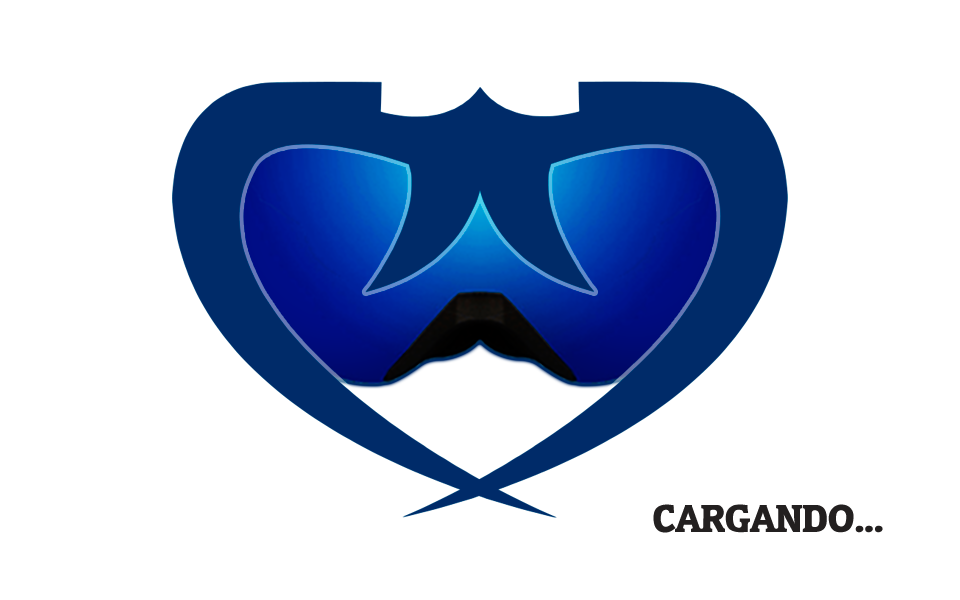
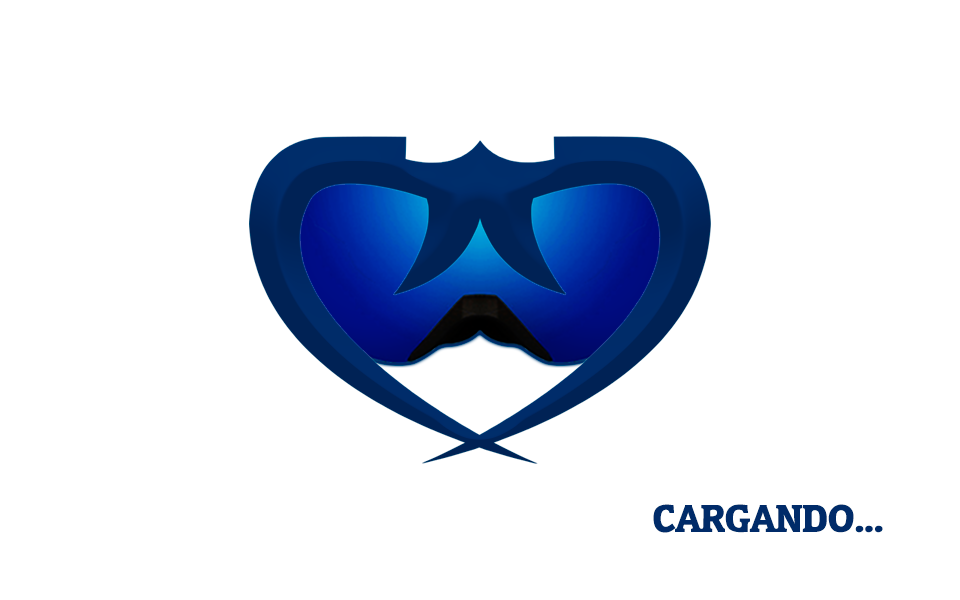
Loading screen added. Working on how to trigger a fade out animation for it when the first scene is loaded.

Changed region(s): [[0.1562, 0.12, 0.8438, 0.87], [0.6562, 0.84, 0.9375, 0.9], [0.4688, 0.48, 0.5312, 0.51]]

diff --git a/Testing Lab/Assets/WebGLTemplates/Plantilla ULPGC/index.html b/Testing Lab/Assets/WebGLTemplates/Plantilla ULPGC/index.html
@@ -118,9 +118,9 @@
 
 	<!-- Scripts para funcionamiento de Unity -->
 
-	<script src="%UNITY_WEBGL_LOADER_URL%"></script>
+	<script src="Build/UnityLoader.js"></script>
   	<script>
-    	var gameInstance = UnityLoader.instantiate("gameContainer", "%UNITY_WEBGL_BUILD_URL%");
+    	var gameInstance = UnityLoader.instantiate("gameContainer", "Build/Builds.json");
 
       	function changeCampusJavascript(campusName){
 			gameInstance.SendMessage("JavaScriptCampusManager", "changeCampusFromJavascript", campusName);
@@ -325,28 +325,31 @@
 				<!-- Fin de botones de campus -->
 
 				<!-- Reproductor web de Unity -->
+				<div class="relative" style="position: relative; height:600px; margin-bottom:150px">
 
-				<div class="webgl-content loading_screen">
-					<img src="./resources/images/pantalla_carga.png" class="fade-out-bck">
+					<!-- Pantalla de carga -->
+					<div class="webgl-content loading_screen" id="loading_screen" style="position: absolute; width: 100%; height: 100%; z-index: 1">
+						<img src="./resources/images/pantalla_carga.png">
+					</div>
+
+					<!-- Reproductor interactivo -->
+					<div class="webgl-content" style="position: absolute">
+						<div id="gameContainer" style="width: 960px; height: 600px; margin: auto"></div>
+
+						<div class="footer">
+							<div class="fullscreen" onclick="gameInstance.SetFullscreen(1)"></div>
+							<div class="title">Pantalla completa</div>
+						</div>
+					</div>
 				</div>
-
-
-                <div class="webgl-content hidden">
-                  <div id="gameContainer" style="width: 960px; height: 600px; margin: auto"></div>
-
-                  <div class="footer">
-                    <div class="fullscreen" onclick="gameInstance.SetFullscreen(1)"></div>
-                    <div class="title">Pantalla completa</div>
-                  </div>
-                </div>
-
+				
                 <!-- Fin de reproductor web de Unity -->
 
-                <div class="download_container">
-                	<a class="download_btn" download href="http://localhost/TFT/Apk/visor3D.apk"><i class="fa fa-android"></i> Descargar aplicación para Android </a>
+                <div class="download_container" style="display:inline-block;">
+                	<a class="download_btn" download href="http://localhost/TFT2/Apk/visor3D.apk"><i class="fa fa-android"></i> Descargar aplicación para Android </a>
                 </div>
-                <div class="download_container">
-                	<a class="download_btn download_remote" download href="http://193.145.147.50/jjangulo/Test/Apk/Visor3D.apk"><i class="fa fa-android"></i> Descargar aplicación (servidor remoto) </a>
+                <div class="download_container" style="display:inline-block;">
+                	<a class="download_btn download_remote" download href="http://193.145.147.50/jjangulo/Test/Apk/visor3D.apk"><i class="fa fa-android"></i> Descargar aplicación (servidor remoto) </a>
                 </div>
                 
                 

diff --git a/Testing Lab/Assets/WebGLTemplates/Plantilla ULPGC/web_ulpgc_files/style.css b/Testing Lab/Assets/WebGLTemplates/Plantilla ULPGC/web_ulpgc_files/style.css
@@ -140,6 +140,7 @@ ul.botonesCampus li{
 	text-align: center;
 	width: 100%;
 	margin: 50px 0 120px 0;
+	display: inline-block;
 }
 
 .download_btn {
@@ -163,15 +164,24 @@ ul.botonesCampus li{
   	background-color: RoyalBlue;
 }
 
-.loading_screen{
+.loading_screen {
 	width: 960px;
 	height: 600px;
-	/*background-image: url(../resources/images/pantalla_carga.png);*/
-	border: 1px;
+	z-index: 1;
 }
 
-.hidden{
+.hidden {
 	display: none;
+}
+
+.showed {
+	display: block;
+}
+
+.relative {
+	position: relative;
+	height: 600px;
+	margin.bottom: 150px;
 }
 
 
@@ -191,10 +201,17 @@ ul.botonesCampus li{
             transform: translateZ(0);
     opacity: 1;
   }
+  99% {
+    opacity: 0;
+    width: 100%;
+    height: 100%;
+  }
   100% {
     -webkit-transform: translateZ(-80px);
             transform: translateZ(-80px);
     opacity: 0;
+    width: 0;
+    height: 0;
   }
 }
 @keyframes fade-out-bck {
@@ -203,10 +220,17 @@ ul.botonesCampus li{
             transform: translateZ(0);
     opacity: 1;
   }
+  99% {
+    opacity: 0;
+    width: 100%;
+    height: 100%;
+  }
   100% {
     -webkit-transform: translateZ(-80px);
             transform: translateZ(-80px);
     opacity: 0;
+    width: 0;
+    height: 0;
   }
 }
 
@@ -215,7 +239,8 @@ ul.botonesCampus li{
 
 /* Unity player styles */
 .webgl-content * {border: 0; margin: 0; padding: 0}
-.webgl-content { margin: 50px 0 30px 0/*position: absolute; top: 50%; left: 50%; -webkit-transform: translate(-50%, -50%); transform: translate(-50%, -50%);*/ }
+/*.webgl-content { margin: 50px 0 30px 0; position: absolute; position: absolute; top: 50%; left: 50%; -webkit-transform: translate(-50%, -50%); transform: translate(-50%, -50%); }*/
+.webgl-content { margin: 50px 0 30px 0; position: absolute; }
 
 .webgl-content .logo, .progress {position: absolute; left: 50%; top: 50%; -webkit-transform: translate(-50%, -50%); transform: translate(-50%, -50%);}
 .webgl-content .logo {background: url('../resources/TemplateData/progressLogo.Light.png') no-repeat center / contain; width: 154px; height: 130px;}

diff --git a/Testing Lab/Assets/Scripts/JavaScriptWebCampusManager.cs b/Testing Lab/Assets/Scripts/JavaScriptWebCampusManager.cs
@@ -1,12 +1,47 @@
-using UnityEngine;
+//using System.Runtime.InteropServices;
+using UnityEngine;
+using UnityEngine.SceneManagement;
 
 public class JavaScriptWebCampusManager : MonoBehaviour
 {
+    /*
+    [DllImport("__Internal")]
+    private static extern void HideLoadingScreenFadeOut();
+
+    [DllImport("__Internal")]
+    private static extern int AddNumbers(int x, int y);*/
+
     public GameObject campusController;
 
+    private static bool _isfirstSceneLoaded = false;
+
+
+    private void OnEnable()
+    {
+        if (SceneManager.GetActiveScene().name == "Tafira" && !_isfirstSceneLoaded)
+        {
+            SceneManager.sceneLoaded += OnSceneLoadedFadeOutLoadingScreen; 
+        }
+        
+    }
+
+    private void OnSceneLoadedFadeOutLoadingScreen(Scene scene, LoadSceneMode mode)
+    {
+        //Debug.Log(AddNumbers(4,5));
+        //HideLoadingScreenFadeOut();
+        SceneManager.sceneLoaded -= OnSceneLoadedFadeOutLoadingScreen;
+        _isfirstSceneLoaded = true;
+    }
 
     public void changeCampusFromJavascript(string campusName)
     {
         campusController.GetComponent<CampusseController>().OpenCampusScene(campusName);
     }
+
+    private void OnDisable()
+    {
+        SceneManager.sceneLoaded -= OnSceneLoadedFadeOutLoadingScreen;
+    }
+
+
 }
